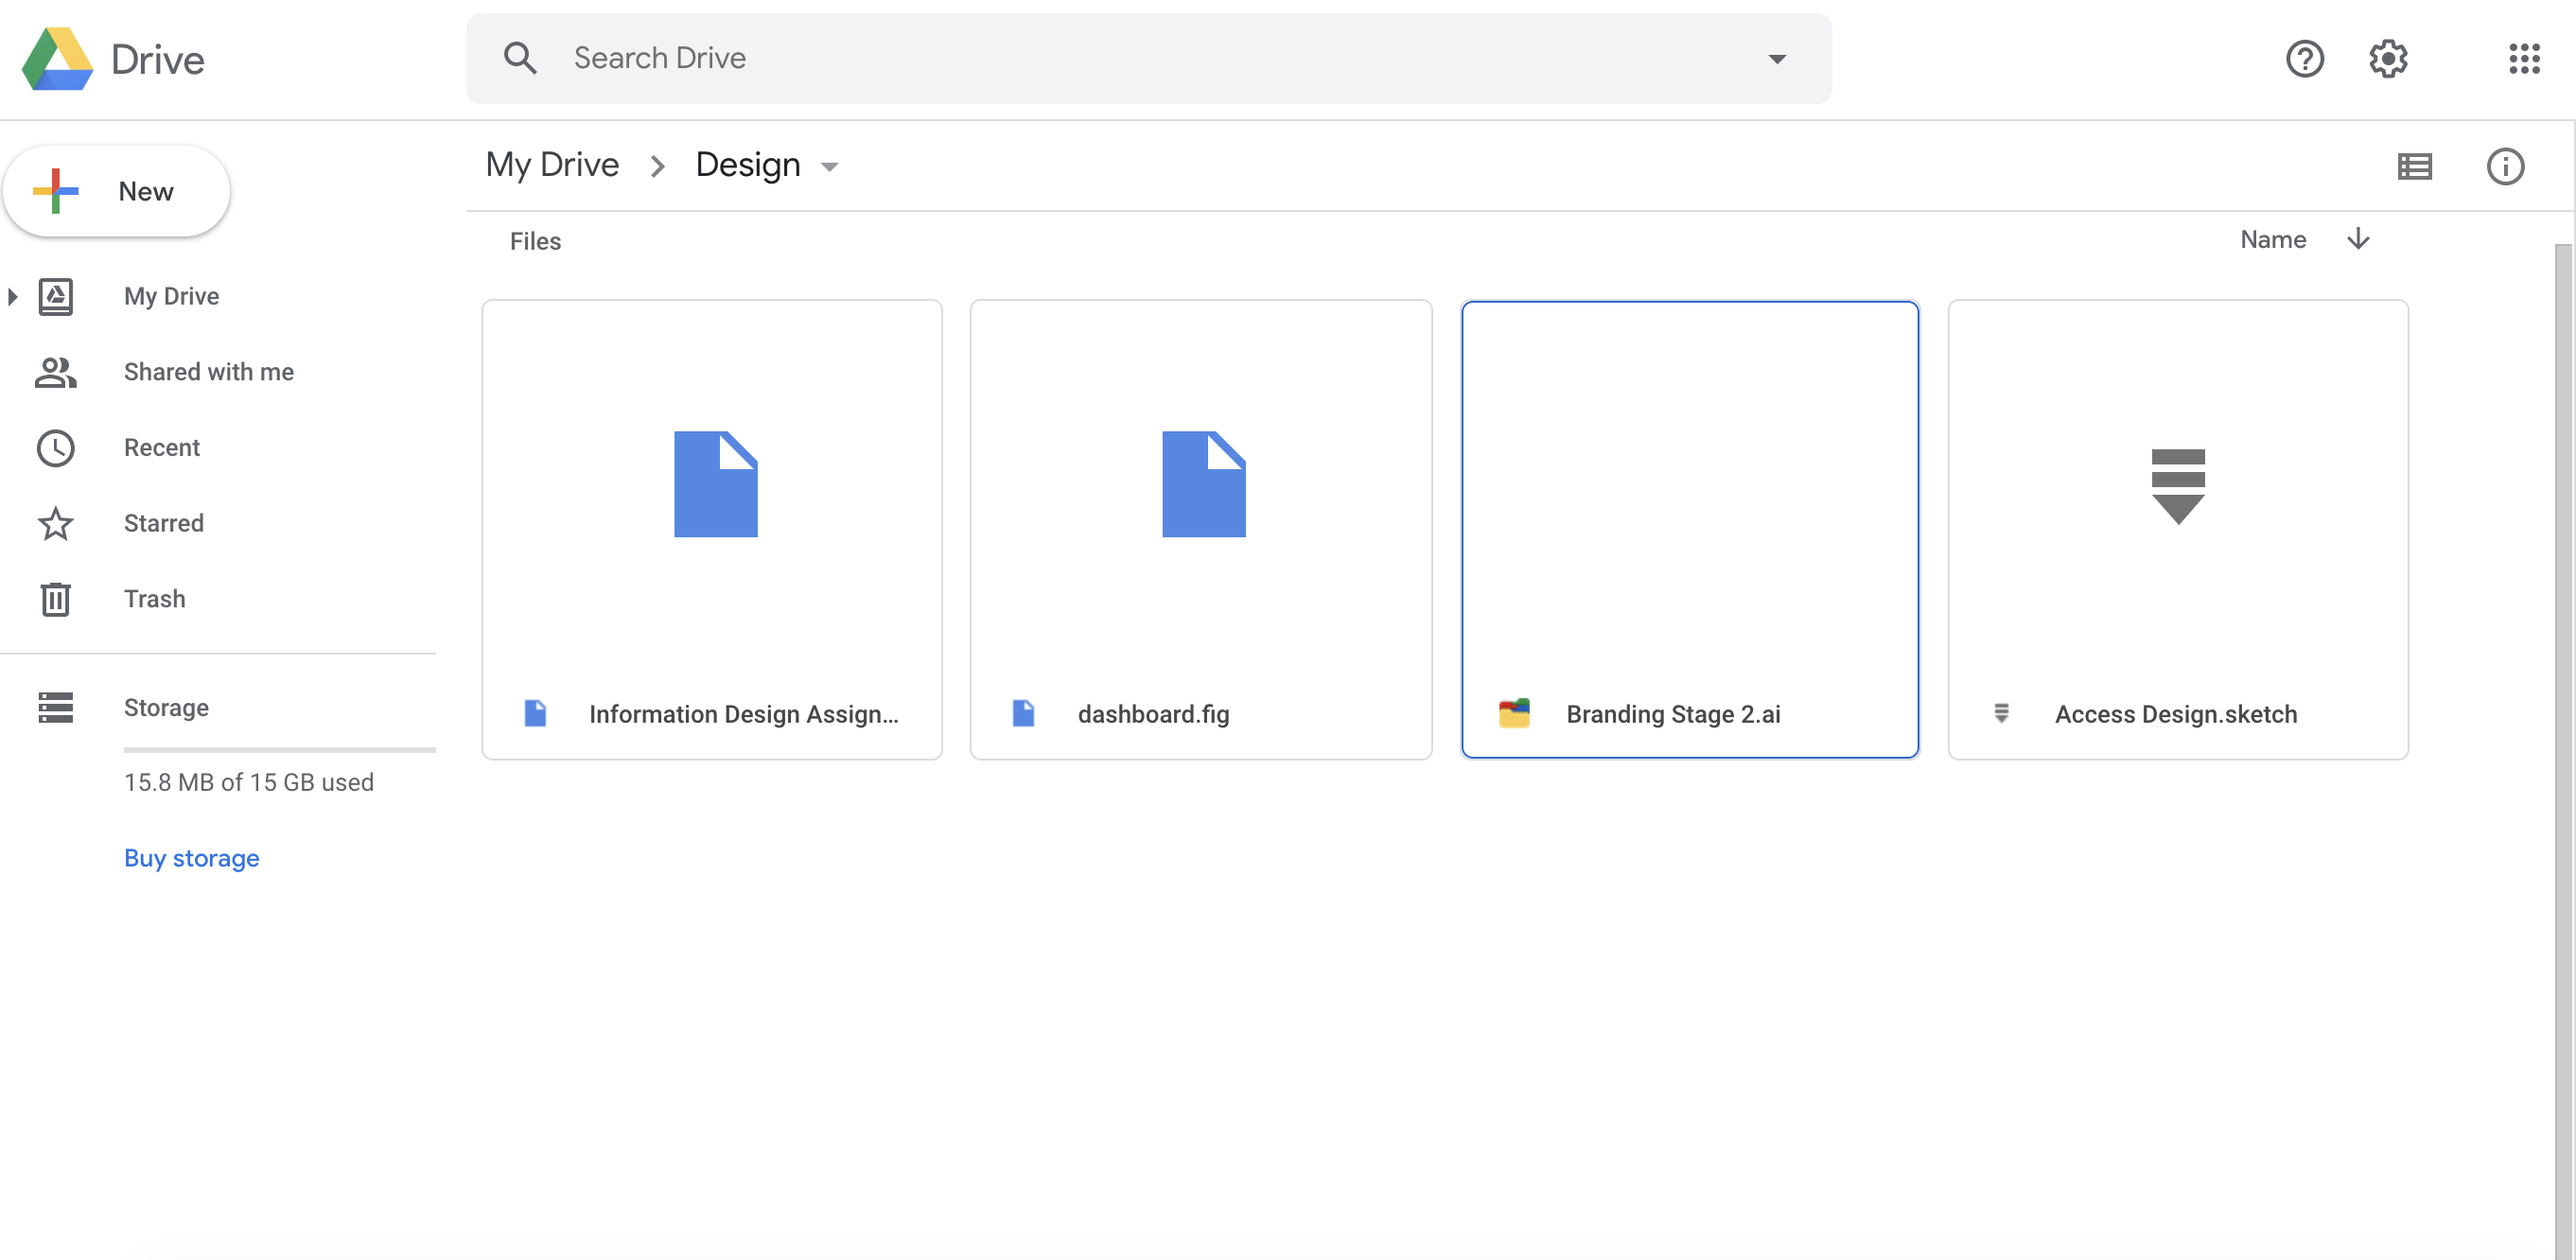
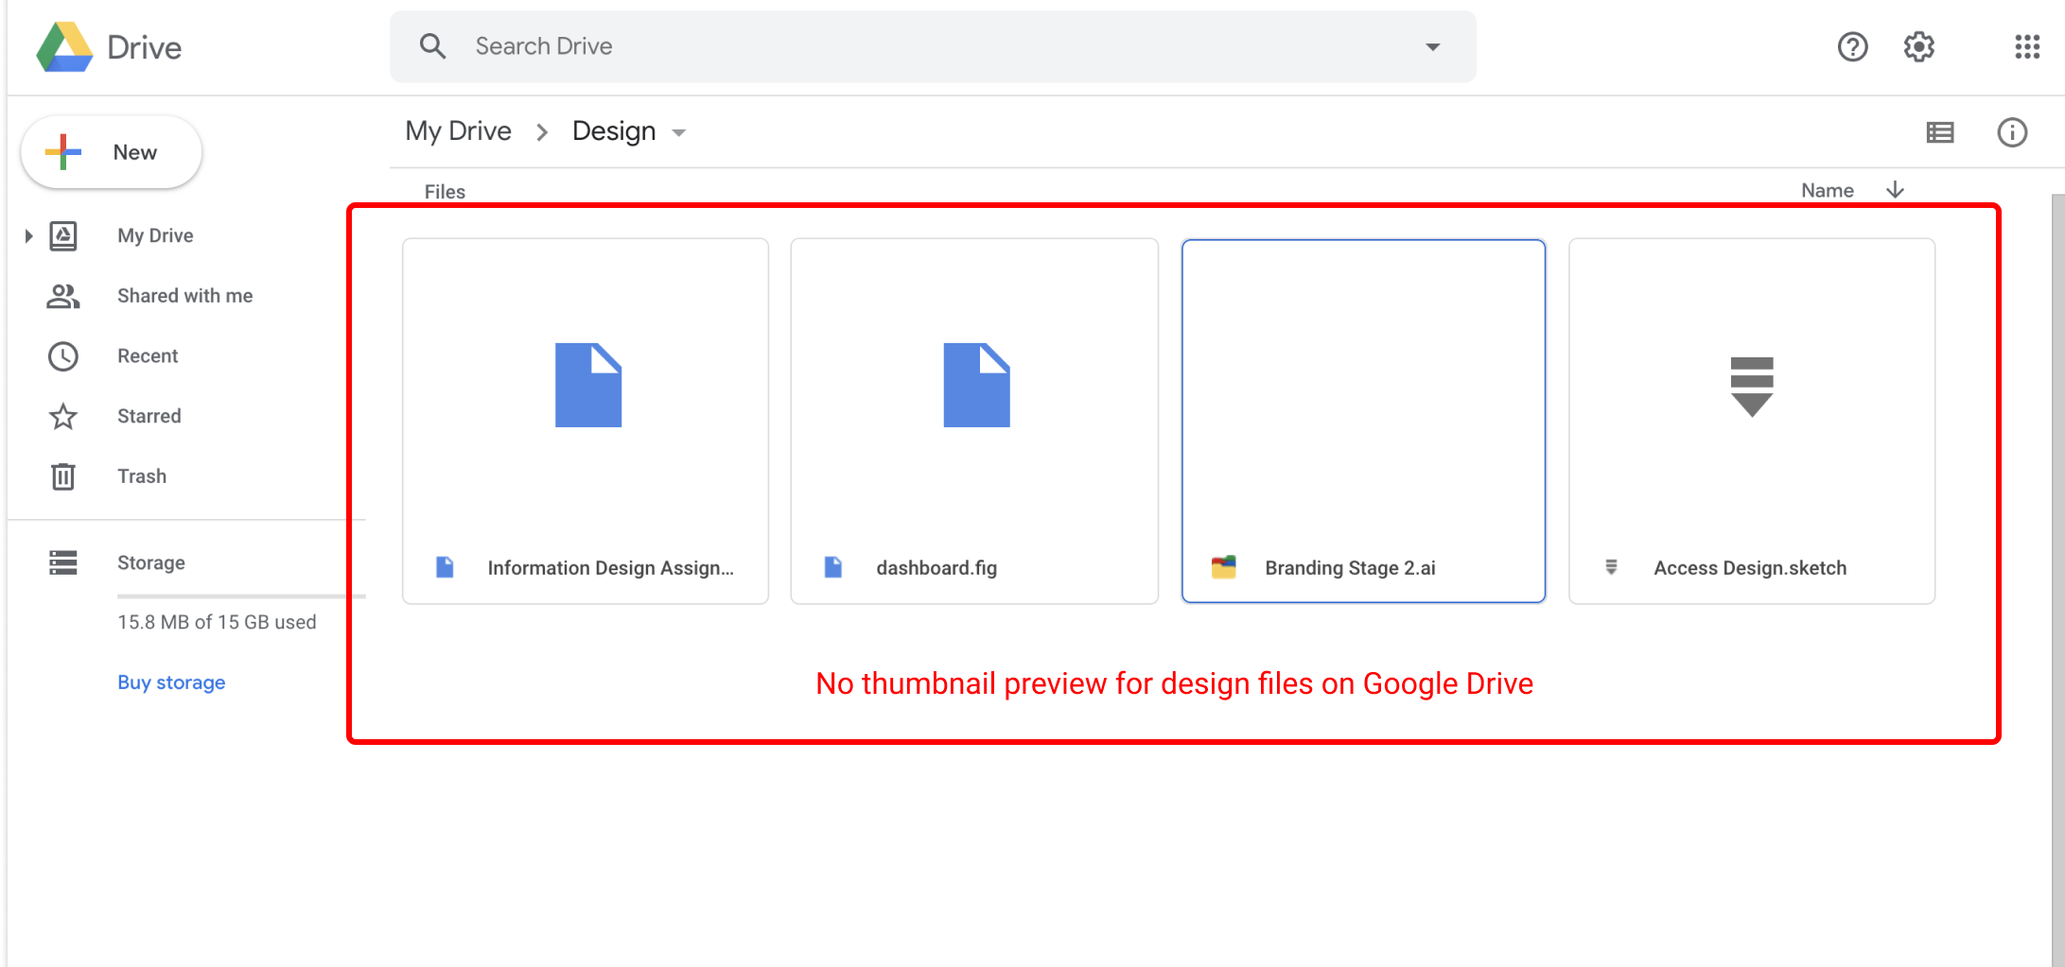
nav margin and position update

diff --git a/inspocloud.html b/inspocloud.html
@@ -49,10 +49,9 @@
        </label>
 
        <ul class="hamburger">
-         <li><a href="work.html">WORK</a></li>
-         <li><a href="https://docs.google.com/document/d/1vb2hA61faVvdQYtrckSWZSyZvKxffi5k1O3eVEx68s4/edit?usp=sharing">RESUME</a></li>
-         <li><a href="about.html">ABOUT</a></li>
-         <li><a href="mailto:hello@alicekim.nyc">CONTACT</a></li>
+         <li><a href="work.html">Work</a></li>
+         <li><a href="about.html">About</a></li>
+         <li><a href="mailto:hello@alicekim.nyc">Contact</a></li>
        </ul>
       </nav>
 
@@ -68,7 +67,7 @@
                <span>UX</span>
                <span>UI Design</span>
                <span>Prototyping</span></h4>
-               <a href="https://invis.io/5UW143FTS76#/405320912_Sign_Up_Start_Final_Screen" class="btn-secondary">View Prototype</a>
+               <a href="https://invis.io/5UW143FTS76#/405320912_Sign_Up_Start_Final_Screen" class="btn-primary">View Prototype</a>
          </div>
 
       </section>
@@ -83,7 +82,7 @@
             <h4>There’s no cloud storage in the market that fits Designers’ needs.</h4>
             <p>According to a user survey with participants of designers, there were expressed frustrations with the big-name cloud storage in the market. Design files are unable to preview unless downloaded from the cloud which adds another step and takes time. Also, users had difficulties finding files if they forgot the file name. This survey showed that there was an opportunity to improve viewing and organizing features catering to designers.</p>
             <img src="../images/googledrive-screenshot.png" alt="Screenshot of Google Drive not displaying preview of design files">
-            <p>Thumbnails for design files like Figma, Sketch, and Illustrator on Google Drive which makes it hard for users to quickly find a file.</p>
+            <p>Unable to see thumbnail previews on Google Drive for design files Figma, Sketch, and Illustrator which makes it difficult for users to quickly find a file.</p>
          </section>
          <!--SOLUTION SUMMARY SECTION-->
            <section class="soultion" id="highlight">
@@ -109,7 +108,7 @@
 
                <p>Takeaways from Survey Analysis</p>
 
-            <div class="visible-list"><ul>
+            <ul class="visible-list">
                <li>100% of the participants use cloud storage</li>
                <li>Designers are uploading design files into the cloud</li>
                <li>Should be able to preview files no matter what the file type is</li>
@@ -117,8 +116,9 @@
                <li>Easier ways to organize</li>
                <li>More visuals and creative options to organize files</li>
                <li>Better layouts to view files</li>
-            </ul></div>
-            <a href="inspocloud-survey">View full survey question</a>
+            </ul>
+             <a href="https://docs.google.com/document/d/1Fku6Y6Q0qIVXvPiQ0bRkyZk8yZpWH02Pah3sfg0gqJU/edit?usp=sharing" class="btn-secondary">View full survey question</a>
+
 
 
             <!--COMPETITIVE ANALYSIS-->

diff --git a/css/style.css b/css/style.css
@@ -44,20 +44,23 @@ html {
     --fs-h3: 2rem;
     --fs-body: 1.5rem;
   }
+  section {
+    padding: 5% 20%;
+  }
 
 /*nav & introduction*/
 
 .AKlogo {
   display: block;
-  max-height: 50px;
+  max-height: 40px;
   position: absolute;
   left: 100px;
-  top: 12px;
+  top: 25px;
 }
 .logo-text{
   position: absolute;
   left: 180px;
-  top: 0px;
+  top: 5px;
   }
 .intro_right{
     display: inline-block;
@@ -73,6 +76,7 @@ html {
 }
 
 /*sections*/
+
 .inspocloud{
     display: inline-block;
     width: 100%;
@@ -141,17 +145,18 @@ html {
 } */
 
 @media (max-width: 900px){
+
   .AKlogo {
     display: block;
-    max-height: 50px;
+    max-height: 40px;
     position: absolute;
     left: 100px;
-    top: 12px;
+    top: 25px;
   }
   .logo-text{
     position: absolute;
     left: 180px;
-    top: 0px;
+    top: 5px;
     }
 }
 
@@ -168,19 +173,12 @@ html {
 
 /* code added to create two-column design */
 @media (min-width: 700px) {
-
-
 .my_skills{
   width: 100%;
-}
+ }
 .skill{
   width: 10%;
-
-}
-
-
-
-
+ }
 }
 
 
@@ -214,14 +212,14 @@ img {
   margin-bottom: 30px;
 }
 
-#persona-img{
-}
-
 #highlight{
   background: #F3EBE3;
   margin: 0;
 }
 
+ul.visible-list {
+  margin: 40 0px;
+}
 
 
 
@@ -256,7 +254,7 @@ h4 span {
 
 a.btn-primary{
     display: inline-block;
-    max-width: 50%;
+    /* max-width: 50%; */
     margin-right: 10px;
     background: #DF7A39;
     border-radius: 30px;
@@ -277,7 +275,7 @@ a.btn-primary:active {background: #C36325;}
 
 a.btn-secondary{
     display: inline-block;
-    max-width: 50%;
+    /* max-width: 50%; */
     border-radius: 30px;
     border: 2px solid #DF7A39;
     color: #DF7A39;
@@ -363,20 +361,20 @@ label.logo{
 }
 
 
-ul{
+ul.hamburger{
   list-style: none;
   float: right;
   padding-right: 100px;
 }
-ul li{
+ul.hamburger li{
   display: inline-block;
   line-height: 20px;
 }
-ul li a{
+ul.hamburger li a{
   color: black;
   border-radius: 3px;
   text-decoration: none;
-  margin: 0px 7px; /*keeps list apart*/
+  margin: 0px 20px; /*keeps list apart*/
 }
 .checkbtn{
   font-size: 30px;
@@ -395,10 +393,6 @@ ul li a{
     padding-left: 50px;
   }
 
-ul li a{
-    font-size: 16px;
-  }
-
   .checkbtn{
     display: block;
   }
@@ -413,18 +407,19 @@ ul.hamburger{
     padding: 0;
     margin: 0;
   }
-  ul li{
+  ul.hamburger li{
     display: block;
     margin: 50px 0;
     line-height: 30px;
   }
-    ul li a{
+    ul.hamburger li a{
       font-size: 20px;
     }
-    #check:checked ~ ul{
+    #check:checked ~ ul.hamburger{
       right: 0;
     }
 }
+
 
 /*----------INTRODUCTION-----------*/
 

diff --git a/index.html b/index.html
@@ -48,10 +48,9 @@
        </label>
 
           <ul class="hamburger">
-            <li><a href="work.html">WORK</a></li>
-            <li><a href="https://docs.google.com/document/d/1vb2hA61faVvdQYtrckSWZSyZvKxffi5k1O3eVEx68s4/edit?usp=sharing">RESUME</a></li>
-            <li><a href="about.html">ABOUT</a></li>
-            <li><a href="mailto:hello@alicekim.nyc">CONTACT</a></li>
+            <li><a href="work.html">Work</a></li>
+            <li><a href="about.html">About</a></li>
+            <li><a href="mailto:hello@alicekim.nyc">Contact</a></li>
           </ul>
 
 

diff --git a/about.html b/about.html
@@ -43,10 +43,9 @@
        </label>
 
        <ul class="hamburger">
-         <li><a href="work.html">WORK</a></li>
-         <li><a href="https://docs.google.com/document/d/1vb2hA61faVvdQYtrckSWZSyZvKxffi5k1O3eVEx68s4/edit?usp=sharing">RESUME</a></li>
-         <li><a href="about.html">ABOUT</a></li>
-         <li><a href="mailto:hello@alicekim.nyc">CONTACT</a></li>
+         <li><a href="work.html">Work</a></li>
+         <li><a href="about.html">About</a></li>
+         <li><a href="mailto:hello@alicekim.nyc">Contact</a></li>
        </ul>
 
       </nav>

diff --git a/work.html b/work.html
@@ -48,10 +48,9 @@
        </label>
 
        <ul class="hamburger">
-         <li><a href="work.html">WORK</a></li>
-         <li><a href="https://docs.google.com/document/d/1vb2hA61faVvdQYtrckSWZSyZvKxffi5k1O3eVEx68s4/edit?usp=sharing">RESUME</a></li>
-         <li><a href="about.html">ABOUT</a></li>
-         <li><a href="mailto:hello@alicekim.nyc">CONTACT</a></li>
+         <li><a href="work.html">Work</a></li>
+         <li><a href="about.html">About</a></li>
+         <li><a href="mailto:hello@alicekim.nyc">Contact</a></li>
        </ul>
 
       </nav>
